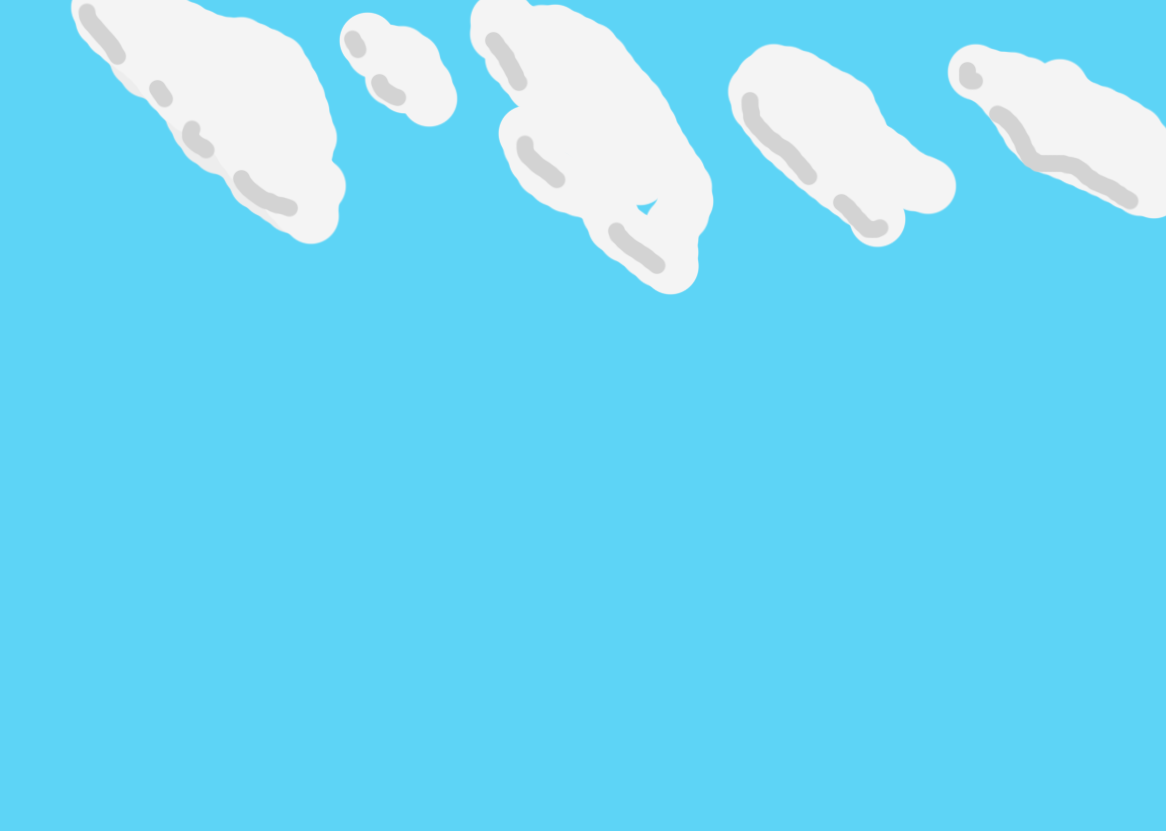
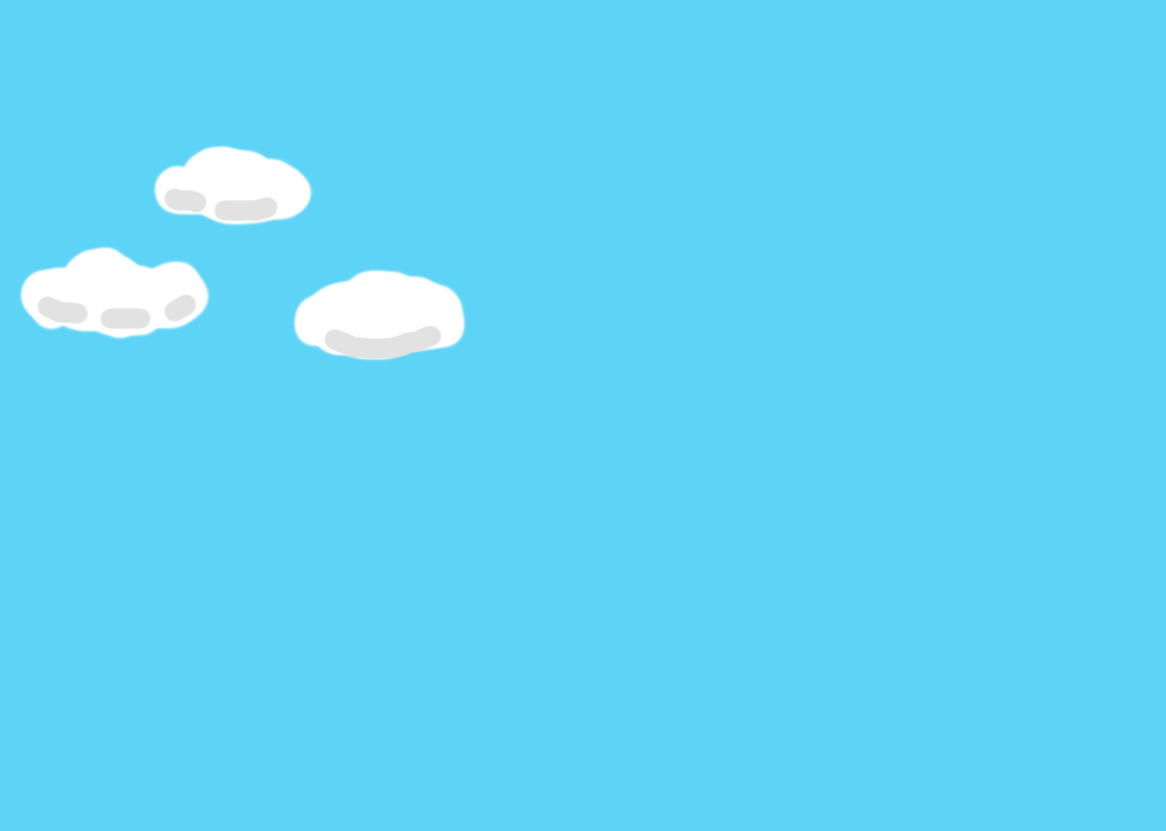
fixed Background

diff --git a/app/Components/Background/Background.css b/app/Components/Background/Background.css
@@ -7,19 +7,22 @@
 
 .panel-body {
     position:relative; 
-    top: 0;
-    left: 0;
+    top: 2vh;
+    left: 10w;
     margin-top: -101vh;
-    width:100vw;
-    height: 100vh;
+    width:120vw;
+    height: 200vh;
     overflow-x: hidden;
+    -ms-transform: rotate(-20deg); /* IE 9 */
+    -webkit-transform: rotate(-20deg); /* Chrome, Safari, Opera */
+    transform: rotate(-20deg);
   
 }
 
 .middleground{
     position: relative;
-    width: 100vw;
-    height: 100vh;
+    width: 120vw;
+    height: 120vh;
 }
 .my-switch-animation.ng-enter,
 .my-switch-animation.ng-leave {
@@ -54,6 +57,9 @@
     height: 200px;
     width: 200px;
     margin-left:45vw;
-    margin-top:-60vh;
+    margin-top:-150vh;
     z-index: 1;
+    -ms-transform: rotate(-20deg); /* IE 9 */
+    -webkit-transform: rotate(-20deg); /* Chrome, Safari, Opera */
+    transform: rotate(-20deg);
 }
